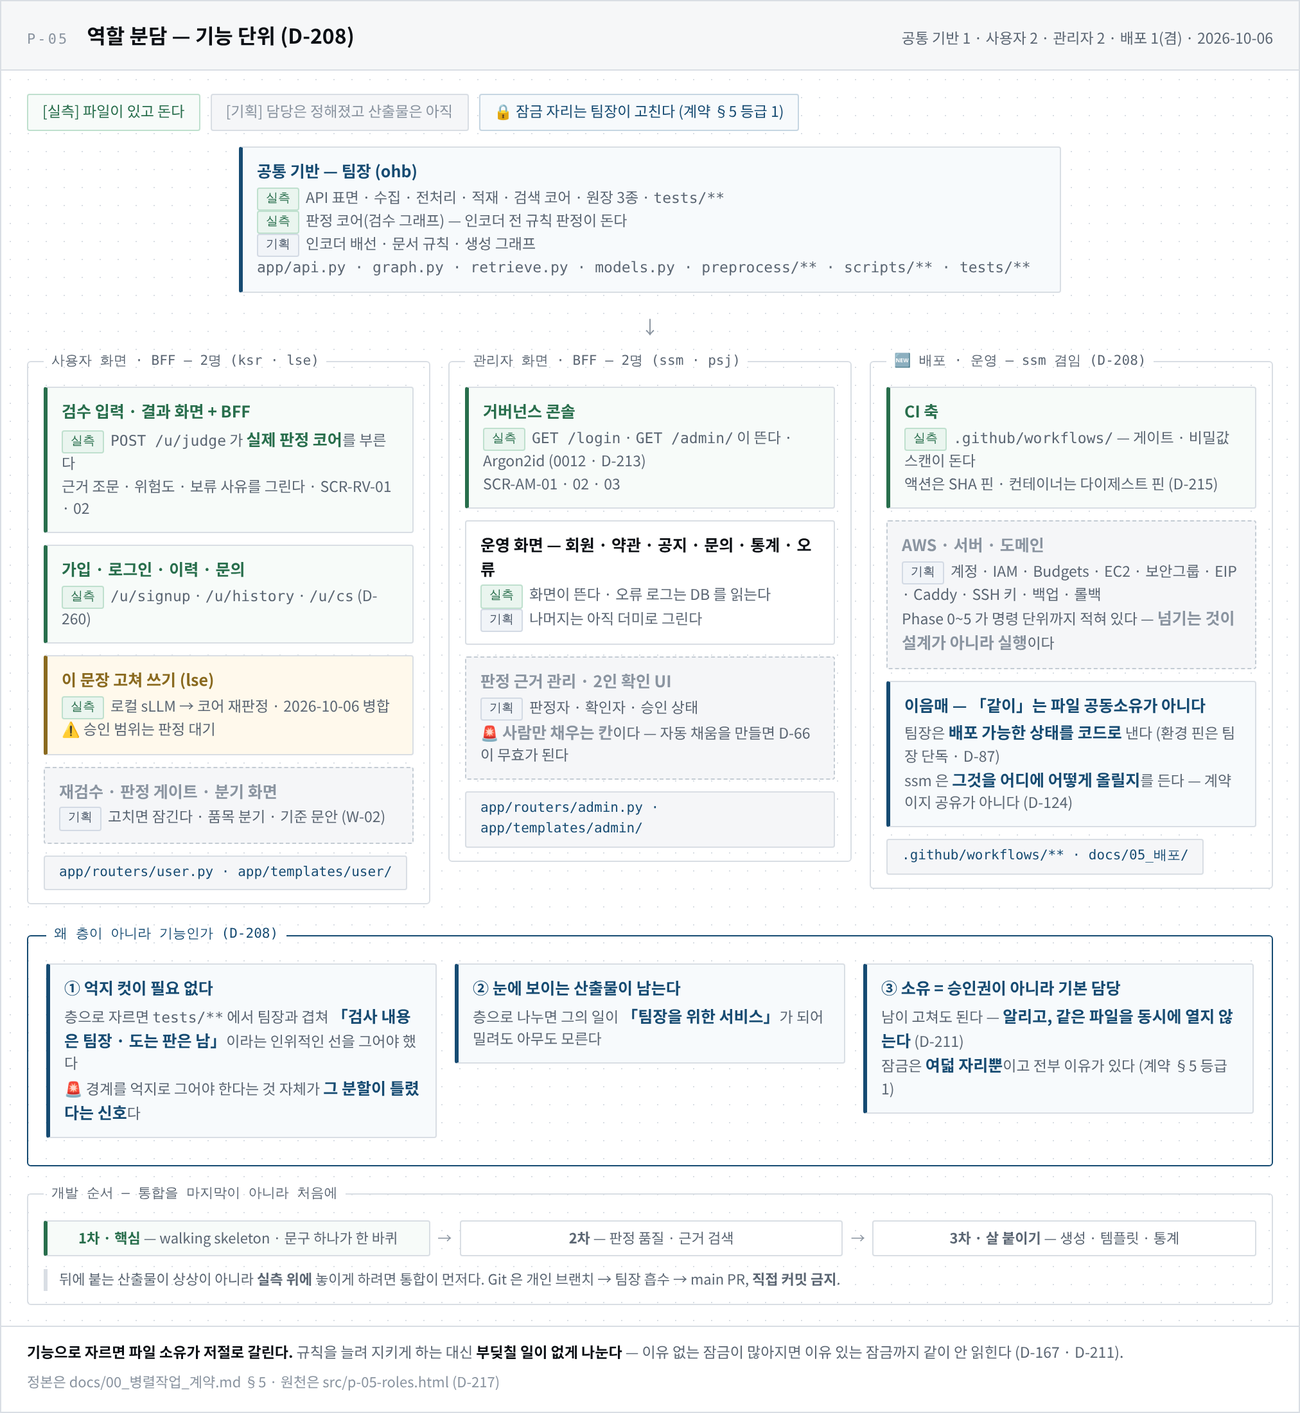
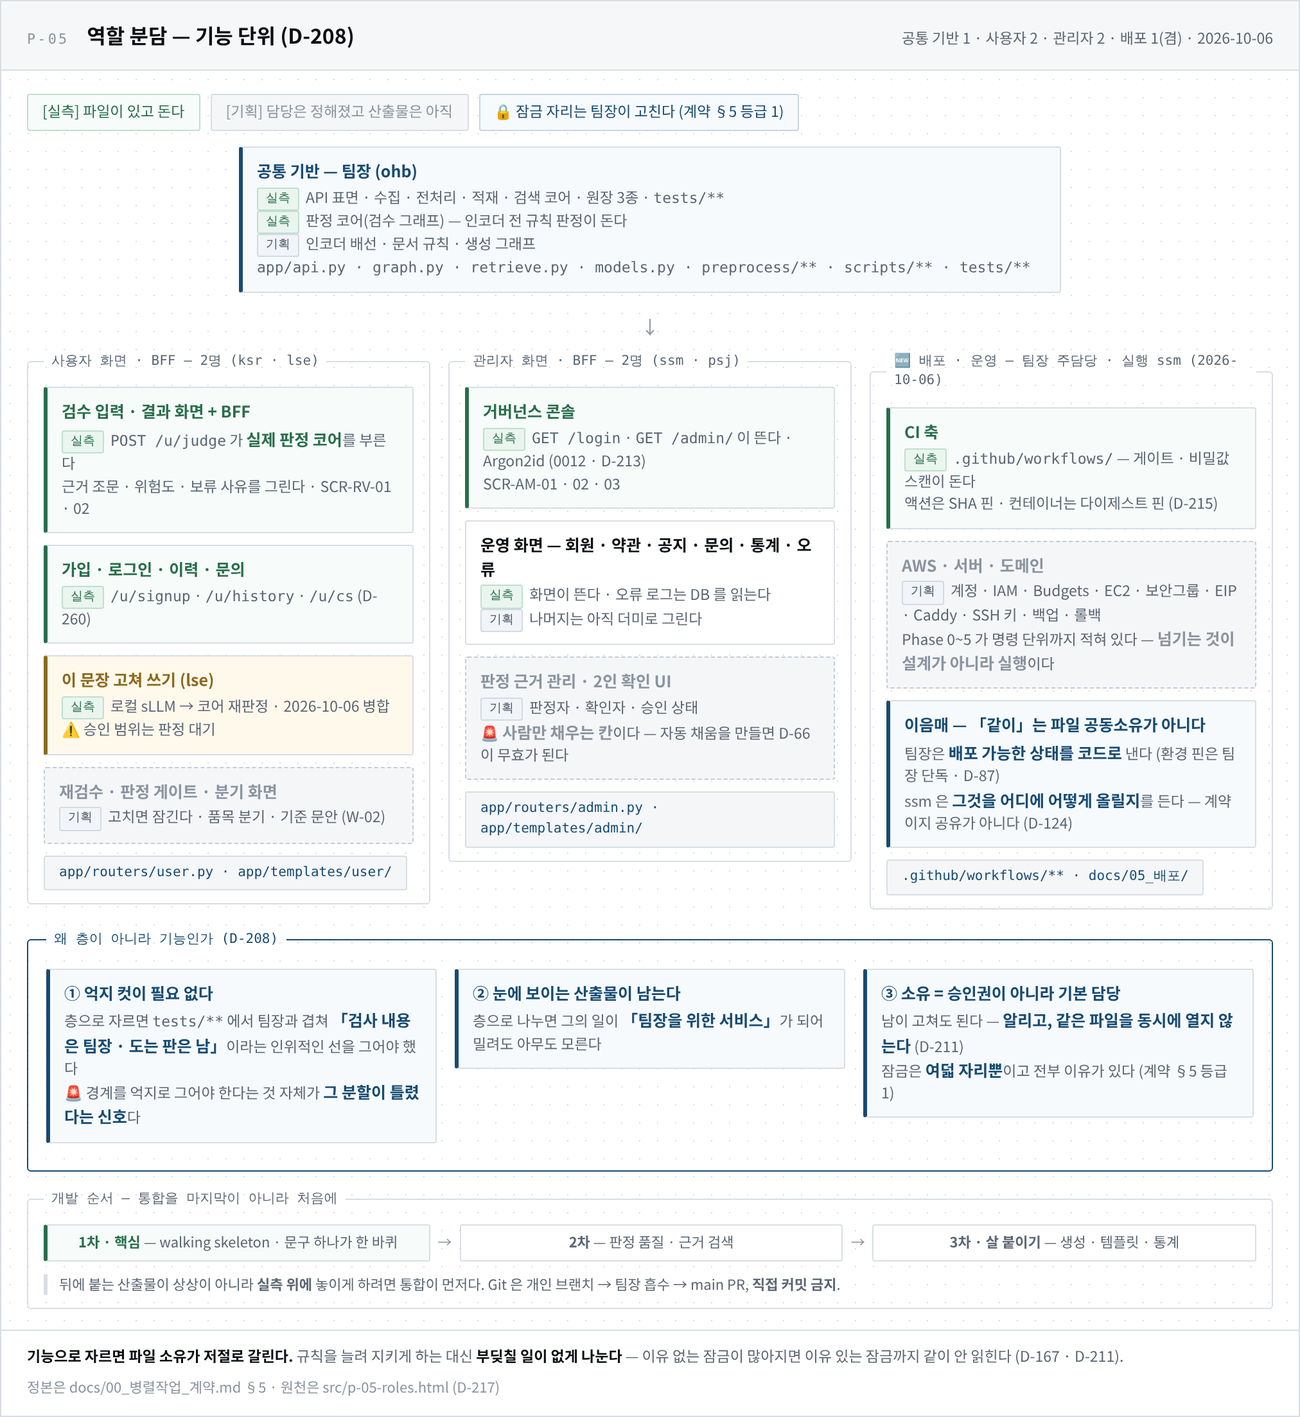
역할 갱신 — sLLM 은 이서은 단독 · 배포·운영 주담당 팀장(D-208 일부 개정) · 소성민 인코더 참여 · 팀장 행 보강

diff --git a/assets/diagrams/src/p-05-roles.html b/assets/diagrams/src/p-05-roles.html
@@ -77,7 +77,7 @@
       </fieldset>
 
       <fieldset>
-        <legend>🆕 배포 · 운영 — ssm 겸임 (D-208)</legend>
+        <legend>🆕 배포 · 운영 — 팀장 주담당 · 실행 ssm (2026-10-06)</legend>
         <div class="card pos"><b>CI 축</b>
           <span><span class="tag m">실측</span><code>.github/workflows/</code> — 게이트 · 비밀값 스캔이 돈다</span>
           <span>액션은 SHA 핀 · 컨테이너는 다이제스트 핀 (D-215)</span></div>

diff --git a/docs/ohb/인계_2026-10-06_클론A_2판.md b/docs/ohb/인계_2026-10-06_클론A_2판.md
@@ -13,7 +13,7 @@
 - **낡은 주석 · 안내문을 고쳤다**(`b0ad791` · 곁가지 · 29 파일) — 「판정 노드는 아직 스텁」류. 동작은 바꾸지 않았다(작업공간에서 구문 트리 대조 — `.py` 17 중 11 동일 · 6 은 안내 · 출력 문자열만 다름)
 - **5주차 산출물 셋을 손질했다**(`8b10220`) — 벡터DB 결과서 · AI 시스템 아키텍처 · 테스트 보고서에 도면(E-03 · A-03 · D-02) · 아키텍처의 생성 노드 서술 정정(빈 노드는 셋) · 테스트 보고서에 저장소 링크와 코드 발췌 · **§6 「sLLM 파인튜닝 평가 — 팀원 작성분」 자리**(비어 있다)
 - 🔴 **`main` 은 `8550651`(PR #88)까지 올라갔다** — `b0ad791` 까지 들어가 있다. `8b10220` 과 이 문서는 아직 `ohb` 에만 있다. 앞 인계가 적은 대로 `main` 에는 분기를 켠 판이 올라가 있다 — 「화면 정리 전에 main 에 올리지 않는다」는 규칙과 어긋난 상태 그대로다(§1 #8)
-- 게이트 — 클론 A 기기 `check` **1,363 passed** · 2 skipped · 809 deselected. 🚨 **`65deaf9` 를 커밋하기 전 문서 1차분만 든 작업 트리에서 돈 수다**(팀장 실행 출력). 도면 · 주석(`b0ad791`) · 산출물 손질(`8b10220`) 뒤의 기기 실행 출력은 받지 못했다 — 작업공간에서는 `ruff` 와 `pytest -m gate` 가 실패 없이 끝났다(기기 실행 아님)
+- 게이트 — 클론 A 기기 `check` **1,363 passed** · 2 skipped · 809 deselected — 🔄 `8b10220` 의 코드(도면 · 주석 · 산출물 손질 뒤) · 팀장 실행 출력. 문서 1차분만 든 작업 트리에서도 같은 수였다
 
 ### 이 세션의 커밋 (`c7f483a` 뒤 · ohb)
 
@@ -63,6 +63,8 @@ uv run python launcher.py check
 | 누구 | 무엇 | 상태 |
 |---|---|---|
 | 팀원 | **요구사항 정의서(업데이트) · 화면설계서 · sLLM 파인튜닝 평가 결과** — 팀원이 작성한다(팀장 확인 10-06) | 저장소의 09-15 판(요구사항 v3.4 · 화면설계서 v1.0)은 그 뒤 결정(D-260 · D-265 · D-314 · D-315 · D-319 · D-320)과 실제 화면을 담지 못한다 — 차이 목록은 정리하지 않았다 |
+| 소성민 | 🔄 **인코더 파인튜닝(T2)에 참여했다**(팀장 확인 10-06) — 원장 「팀」 표 · README · 기획서 8-5 · 주제확정 §4 · `experiments/README.md` 에 반영했다(이 문서 뒤 커밋) | 주담당 · 참여의 구분은 적지 않았다. 🚨 도면 P-05 는 고치지 않았다 — 그 장에는 파인튜닝 트랙(T2 · T5)이 아예 없다(화면 · 배포만 그린다) |
+| 전원 | 🔄 **역할 갱신 (2026-10-06 팀장 판정 · 확인)** — sLLM 파인튜닝(T5)은 이서은 단독(권소라는 맡지 않았다) · 배포·운영은 **팀장 주담당 · 소성민 실행**(D-208 상태 줄에 일부 개정) · 팀장 행에 CI · 거버넌스 게이트 · 보안 점검 · 인증 · 문서 · 브랜치 통합 | 원장 「팀」 표와 사본(README · 기획서 8-5 · 주제확정 §4 · 작업일정 §3 · 병렬작업 계약 §5 · `experiments/README.md` · 도면 P-05)에 반영했다. ⬜ T2 를 「박수진 · 소성민 공동」으로 적을지는 미정 — 지금은 「소성민 참여」다. ⬜ 권소라의 수집 · 2인 확인(확인 서명 74 칸 중 61)을 개인 행에 올릴지도 미정 |
 | 소성민 | 지원 리소스 4종의 **종류별 발급일** — 발급은 소성민이 진행했다(팀장 확인) | 원장 「지원 리소스」 표의 발급일 · 만료 예정 칸이 비어 있다 |
 | 이서은 | sLLM 결과서(10-01 판)의 「살림 20 중 8」 ↔ `작업공유_2026-10-05_06.md` 의 「20 중 9」 | 어느 쪽이 맞는지 확인하지 못했다 — 평가 절을 쓸 때 맞춘다 |
 | 권소라 | 앞 인계 §2 그대로 — `전달_2026-10-05_화면_품목분기.md` 는 아직 안 보냈다 | 초안 고치기 전 |

diff --git a/docs/01_기획/02_프로젝트기획서.md b/docs/01_기획/02_프로젝트기획서.md
@@ -2961,10 +2961,10 @@ G1 통과 기준 = 유형별 Recall이 B 대비 +0.15 이상
 
 | 이름 | 트랙 배정 | 부하 피크 |
 |---|---|:-:|
-| **오한빈** (팀장) | **파이프라인 전체**(전처리 · DB 설계 · 임베딩 · 판정 · 생성 + 판정 코어 API) — **T1 데이터·거버넌스** · T2/T5 **구조(harness)** · **T3 ML·리랭킹** · **T4 그래프 단독** (D-207) | 1W~5W · 6W~7W 재상승 |
-| **권소라** | **사용자 화면 + BFF** · UI 정의 · 🔄 **sLLM 파인튜닝(T5)** | 6W~9W |
-| **이서은** | **사용자 화면 + BFF** · UI 정의 · 🔄 **sLLM 파인튜닝(T5)** | 6W~9W |
-| **소성민** | 🔄 **관리자 화면 + BFF** · 거버넌스 운영 화면 · **배포·운영** · 지원 리소스 발급 (D-208) | 6W~9W |
+| **오한빈** (팀장) | **파이프라인 전체**(전처리 · DB 설계 · 임베딩 · 판정 · 생성 + 판정 코어 API) — **T1 데이터·거버넌스** · T2/T5 **구조(harness)** · **T3 ML·리랭킹** · **T4 그래프 단독** (D-207) · 🔄 **배포·운영 주담당**(실행은 소성민) · CI · 거버넌스 게이트 · 보안 점검 · 인증 · 문서 · 팀원 브랜치 통합 (2026-10-06 팀장 확인) | 1W~5W · 6W~7W 재상승 |
+| **권소라** | **사용자 화면 + BFF** · UI 정의 · 🔄 sLLM 파인튜닝(T5)은 맡지 않았다 — 이서은이 진행했다 (2026-10-06 팀장 확인) | 6W~9W |
+| **이서은** | **사용자 화면 + BFF** · UI 정의 · 🔄 **sLLM 파인튜닝(T5)** — 단독 진행 | 6W~9W |
+| **소성민** | 🔄 **관리자 화면 + BFF** · 거버넌스 운영 화면 · **배포·운영의 실행**(🔄 2026-10-06 주담당은 팀장) · 지원 리소스 발급 (D-208) · 🔄 **DL 인코더 파인튜닝(T2) 참여** — 박수진과 함께 (2026-10-06 팀장 확인) | 6W~9W |
 | **박수진** | **관리자 화면 + BFF** · UI 정의 · 🔄 **DL 인코더 파인튜닝(T2)** | 6W~9W |
 
 > 🔄 **v4.2 — 위 표를 사실원장 「팀 (5인)」 표(2026-09-12 밤 개정)에 다시 맞췄습니다.** 종전 사본은 팀원 4인을 「T5 웹 플랫폼」으로만 적어 **sLLM 파인튜닝(권소라 · 이서은)과 인코더 파인튜닝(박수진)** 이 빠져 있었습니다. 역할은 기본 담당이고 배타적 소유가 아닙니다. 이 표도 사본이므로 **어긋나면 원장이 맞습니다.**
@@ -3656,7 +3656,7 @@ CopyLane     :  차선 긋기  ->  차선 안에서만 생성
 | 5 | **위험도 상향 상한** | 「인코더 +1 등급까지」에 개정 표시 — 근거 스팬 조건부 | 3-5 | D-131 |
 | 6 | **게이트** | 날짜 **9/9(→ 9/10 충족) · 9/11 · 10/13 · 10/13** · 셋째 게이트의 정의를 규칙 조립 생성 기준으로 · 이 문서의 「착수 게이트」와 원장 · 작업일정의 「Phase N 게이트」 이름을 대응시켰습니다 | 8-1 · 8-3 · 9장 철수 조건 | 사실원장 「일정」 · **D-270** |
 | 7 | **T4 2인 페어** | 「T4 를 1인 전담으로 두지 마십시오」를 접었습니다 — 팀장 단독 | 8-5 · 9장 | **D-207** |
-| 8 | **배정** | 팀원 4인에 sLLM 파인튜닝(권소라 · 이서은) · 인코더 파인튜닝(박수진) 추가 | 8-5 | 사실원장 「팀 (5인)」 |
+| 8 | **배정** | 팀원에 sLLM 파인튜닝(이서은 — 🔄 권소라는 맡지 않았다) · 인코더 파인튜닝(박수진 · 🔄 소성민 참여) 추가 · 🔄 배포·운영 주담당은 팀장 · 실행은 소성민 (2026-10-06 팀장 확인) | 8-5 | 사실원장 「팀 (5인)」 |
 | 9 | **적법 라벨 원천** | 식품산업협회 「심의완료 공개목록」(심의 통과 문구 100건+)은 **G1 배제** — 쓰지 않습니다 | 0장 · 4-3 · 4-4 · 5-7 · 9장 · 10장 #6 | 소스 레지스트리 편입 금지 목록 |
 
 **② 🚨 판정 대기 — 이 판이 결론을 적지 않은 것**

diff --git a/docs/01_기획/03_작업일정.md b/docs/01_기획/03_작업일정.md
@@ -85,7 +85,7 @@
 
 ## 3. 공식 WBS 산출물 배치와 담당 트랙
 
-공식 양식의 산출물에 **기획서 8-5의 트랙**을 붙인 것이다. 🔄 인원 배정은 **2026-08-31 확정 → 2026-09-03 개정 → 2026-09-12 밤 개정** — 단일 출처는 `00_사실원장.md` 「팀」이다 (팀장 = 파이프라인 전체 + 판정 코어 API · T1 · T3 리랭킹 · T4 그래프 단독(D-207) / 팀원 4인 = 화면 + BFF 세트에 트랙 담당을 얹음 — 권소라 · 이서은 sLLM 파인튜닝(T5) · 박수진 DL 인코더 파인튜닝(T2) · 소성민 배포·운영).
+공식 양식의 산출물에 **기획서 8-5의 트랙**을 붙인 것이다. 🔄 인원 배정은 **2026-08-31 확정 → 2026-09-03 개정 → 2026-09-12 밤 개정** — 단일 출처는 `00_사실원장.md` 「팀」이다 (팀장 = 파이프라인 전체 + 판정 코어 API · T1 · T3 리랭킹 · T4 그래프 단독(D-207) / 팀원 4인 = 화면 + BFF 세트에 트랙 담당을 얹음 — 이서은 sLLM 파인튜닝(T5) · 박수진 DL 인코더 파인튜닝(T2 · 소성민 참여) · 배포·운영은 팀장 주담당 · 소성민 실행 — 🔄 2026-10-06 팀장 확인).
 
 > 🔄 **진행 표시 (2026-10-06 · 5W 마지막 날)** — 아래 표는 **제출 시점**의 배치다. 5W~6W 줄 가운데 10-06 에 상태를 확인한 것만 「🔄 10-06」으로 적었다. 표시가 없는 줄은 이번에 상태를 확인하지 않은 것이다(없다는 뜻이 아니다).
 
@@ -102,7 +102,7 @@
 | **모델링·평가** | 벡터DB/GraphDB 구축 결과서 | 5W~6W | **T1 · T4** |
 | | AI 시스템 아키텍처 (멀티 에이전트) | 5W~6W | **T4** · 🔄 *10-06 — 판정(검수) 그래프는 실제로 돈다(`/judge` · 사전 적중 기반 판정 첫 판 · 품목 분기 · 증명서 조립기). 인코더 노드는 빈 노드이고 생성 그래프 노드는 스텁이다 — ⬜ 미완* |
 | | 멀티 에이전트 테스트 계획·결과 보고서 (소스코드 포함) | 5W~6W | **T4 · T5** · 🔄 *10-06 — ⬜ 평가 채점 규칙 · 10/13 F1 게이트 지표가 미정 · 판정 대기* |
-| | 자체 sLLM (3·4번 팀) | 5W~6W | **T5** (권소라 · 이서은) · 🔄 *10-06 — sLLM 고쳐 쓰기가 `ohb` 에 병합됐다: 검수 화면의 `POST /u/review/rewrite` 가 로컬 sLLM 서버(`Qwen/Qwen2.5-3B-Instruct` + LoRA · 별도 가상환경)를 부르고 고친 문구를 판정 코어로 다시 판정한다. 그래프의 생성 노드와 `POST /generate` · `/compose`(501)는 그대로다. ⚠ **D-265(검수는 대체 문구를 내지 않는다) · D-270(sLLM 은 설계만)과의 관계, 승인 범위(실사용 · 시연)는 판정 대기** · 모델 레지스트리 등재 · 라이선스도 미정* |
+| | 자체 sLLM (3·4번 팀) | 5W~6W | **T5** (이서은 — 🔄 권소라는 맡지 않았다 · 2026-10-06 팀장 확인) · 🔄 *10-06 — sLLM 고쳐 쓰기가 `ohb` 에 병합됐다: 검수 화면의 `POST /u/review/rewrite` 가 로컬 sLLM 서버(`Qwen/Qwen2.5-3B-Instruct` + LoRA · 별도 가상환경)를 부르고 고친 문구를 판정 코어로 다시 판정한다. 그래프의 생성 노드와 `POST /generate` · `/compose`(501)는 그대로다. ⚠ **D-265(검수는 대체 문구를 내지 않는다) · D-270(sLLM 은 설계만)과의 관계, 승인 범위(실사용 · 시연)는 판정 대기** · 모델 레지스트리 등재 · 라이선스도 미정* |
 | **모델 배포** | 요구사항 정의서 (업데이트) | 5W | 팀장 |
 | | 화면설계서 | 5W | 🔄 **팀원 4인** (유저·관리자 화면 + BFF) — 종전 「T1 이 6W 부터 이관」은 배정 개정으로 폐기 |
 | | 개발된 LLM 연동 웹 애플리케이션 | 7W | 🔄 **팀원 4인** (화면·BFF) + **팀장** (판정 코어 API) |

diff --git a/docs/00_사실원장.md b/docs/00_사실원장.md
@@ -27,10 +27,10 @@
 
 | 역할 | 이름 | 이니셜 | 브랜치 | 개인 문서 폴더 | 🔄 배정 (2026-09-12 밤 개정) |
 |---|---|:-:|---|---|---|
-| **팀장** | **오한빈** | `ohb` | `ohb` | `docs/ohb/` | **파이프라인 전체** — 전처리 · DB 설계 · 임베딩 · 판정 · 생성 + **판정 코어 API**. 🔄 **T1 · T3 리랭킹 · T4 그래프 단독** (D-207) |
-| 팀원 | 권소라 | `ksr` | `ksr` | `docs/ksr/` | 🔄 **사용자 화면 + BFF** · UI 정의 · **sLLM 파인튜닝(T5)** |
-| 팀원 | 이서은 | `lse` | `lse` | `docs/lse/` | 🔄 **사용자 화면 + BFF** · UI 정의 · **sLLM 파인튜닝(T5)** |
-| 팀원 | 소성민 | `ssm` | `ssm` | `docs/ssm/` | 🔄 **관리자 화면 + BFF**(그래프에 요구하는 계약 포함) · **거버넌스 운영 화면** · 🆕 **배포·운영**(AWS·서버·HTTPS·CI 축) · **리소스 발급(RunPod · AWS)**. ⛔ **T4 페어 아님** (D-207) · **기능 단위** (D-208) |
+| **팀장** | **오한빈** | `ohb` | `ohb` | `docs/ohb/` | **파이프라인 전체** — 전처리 · DB 설계 · 임베딩 · 판정 · 생성 + **판정 코어 API**. 🔄 **T1 · T3 리랭킹 · T4 그래프 단독** (D-207) · 🔄 **배포·운영 주담당**(실행은 소성민) · **CI · 거버넌스 게이트 · 보안 점검 · 인증 · 문서 · 팀원 브랜치 통합** (2026-10-06 팀장 확인) |
+| 팀원 | 권소라 | `ksr` | `ksr` | `docs/ksr/` | 🔄 **사용자 화면 + BFF** · UI 정의 · 🔄 sLLM 파인튜닝(T5)은 맡지 않았다 — 이서은이 진행했다 (2026-10-06 팀장 확인) |
+| 팀원 | 이서은 | `lse` | `lse` | `docs/lse/` | 🔄 **사용자 화면 + BFF** · UI 정의 · **sLLM 파인튜닝(T5)** — 🔄 단독 진행 (2026-10-06 팀장 확인) |
+| 팀원 | 소성민 | `ssm` | `ssm` | `docs/ssm/` | 🔄 **관리자 화면 + BFF**(그래프에 요구하는 계약 포함) · **거버넌스 운영 화면** · 🆕 **배포·운영의 실행**(AWS·서버·HTTPS·CI 축 — 🔄 2026-10-06 주담당은 팀장 · 실행이 소성민) · **리소스 발급(RunPod · AWS)** · 🔄 **DL 인코더 파인튜닝(T2) 참여** — 박수진과 함께 (2026-10-06 팀장 확인 · 보고서 `docs/ssm/`). ⛔ **T4 페어 아님** (D-207) · **기능 단위** (D-208) |
 | 팀원 | 박수진 | `psj` | `psj` | `docs/psj/` | 🔄 **관리자 화면 + BFF** · UI 정의 · **DL 인코더 파인튜닝(T2)** |
 | **전원** | — | — | — | — | **데이터 수집 · S0-14 2인 확인 · 설계 가정 검증 5건** |
 | 공동 | **실험 분배** | — | — | — | **구조 = 팀장 · 실험 = 팀원 분배** (D-94) |

diff --git a/docs/01_기획/01_주제확정_및_실행일정.md b/docs/01_기획/01_주제확정_및_실행일정.md
@@ -177,10 +177,10 @@
 
 | 담당 | 배정 (원장 「팀」 · 2026-09-12 밤 개정) |
 |---|---|
-| **팀장 (오한빈)** | **파이프라인 전체** — 전처리 · DB 설계 · 임베딩 · 판정 · 생성 + **판정 코어 API**. **T1 · T3 리랭킹 · T4 그래프 단독** (D-207) |
-| **권소라** | **사용자 화면 + BFF** · UI 정의 · **sLLM 파인튜닝(T5)** |
-| **이서은** | **사용자 화면 + BFF** · UI 정의 · **sLLM 파인튜닝(T5)** |
-| **소성민** | **관리자 화면 + BFF**(그래프에 요구하는 계약 포함) · 거버넌스 운영 화면 · **배포·운영**(AWS · 서버 · HTTPS · CI 축 · D-208) · 리소스 발급(RunPod · AWS) |
+| **팀장 (오한빈)** | **파이프라인 전체** — 전처리 · DB 설계 · 임베딩 · 판정 · 생성 + **판정 코어 API**. **T1 · T3 리랭킹 · T4 그래프 단독** (D-207) · 🔄 **배포·운영 주담당**(실행은 소성민) · CI · 거버넌스 게이트 · 보안 점검 · 인증 · 문서 · 팀원 브랜치 통합 (2026-10-06 팀장 확인) |
+| **권소라** | **사용자 화면 + BFF** · UI 정의 · 🔄 sLLM 파인튜닝(T5)은 맡지 않았다 — 이서은이 진행했다 (2026-10-06 팀장 확인) |
+| **이서은** | **사용자 화면 + BFF** · UI 정의 · **sLLM 파인튜닝(T5)** — 🔄 단독 진행 |
+| **소성민** | **관리자 화면 + BFF**(그래프에 요구하는 계약 포함) · 거버넌스 운영 화면 · **배포·운영의 실행**(AWS · 서버 · HTTPS · CI 축 · D-208 — 🔄 2026-10-06 주담당은 팀장) · 리소스 발급(RunPod · AWS) · 🔄 **DL 인코더 파인튜닝(T2) 참여** — 박수진과 함께 (2026-10-06 팀장 확인) |
 | **박수진** | **관리자 화면 + BFF** · UI 정의 · **DL 인코더 파인튜닝(T2)** |
 | **전원** | 데이터 수집 · S0-14 2인 확인 · 설계 가정 검증 5건 |
 | 공동 | 실험 분배 — 구조 = 팀장 · 실험 = 팀원 분배 (D-94) |

diff --git a/experiments/README.md b/experiments/README.md
@@ -73,8 +73,8 @@ note: 왜 이 조합을 골랐는지 한 줄
   위 표대로 각자 노트북 · 스크립트로 진행했다. ⛔ 기본값을 코드에 박아 두지 않은 것은 그대로다.
   ⬜ 이 틀을 지금이라도 세워 기존 실험을 옮길지, 틀을 접을지는 **정해지지 않았다**(팀장 판정).
 - ~~🔴 **T3 에 사람이 없다.**~~ → ✅ **T3(ML·리랭킹)은 팀장이 진다** (2026-09-12 밤 팀장 판정 · 사실원장 「팀」). 🔄 2026-09-21 정정 —
-  배정은 T2(psj) · T5(ksr·lse) · T1·T3·T4 팀장이다. ssm 은 T4 페어가 아니다 (D-207 · 페어 → 계약).
-  🔄 2026-10-06 — 인코더 파인튜닝 보고서는 `docs/ssm/` 에도 있다(원장 「팀」 표의 배정 글자는 T2 = psj 그대로다).
+  배정은 T2(psj) · T5(ksr·lse) · T1·T3·T4 팀장이다. 🔄 2026-10-06 — T5 는 lse 가 단독으로 진행했다(ksr 은 맡지 않았다 · 팀장 확인). ssm 은 T4 페어가 아니다 (D-207 · 페어 → 계약).
+  🔄 2026-10-06 — **ssm 도 인코더 파인튜닝(T2)에 참여했다** — psj 와 함께다(팀장 확인 · 원장 「팀」 표에 반영). 보고서는 `docs/psj/` · `docs/ssm/` 양쪽에 있다.
 - **분배표** — 누가 어떤 `(모델, 하이퍼파라미터)` 를 받는지. 원장 「팀」 절이 ⬜ 로 적어 뒀다. ⬜ 10-06 기준 재확인 필요 — 원장의 ⬜ 는 그대로다.
 - **RunPod 슬롯 규칙** — 계정이 팀당 1개다. 발급 담당(소성민)과 정한다 (D-94). ⬜ 10-06 기준 재확인 필요 — 정해졌다는 기록을 찾지 못했다.
 - **무변화 3회 실행** — 설정을 나눠 주기 **전에** 팀장이 트랙마다 한 번 돌려 폭을 원장에 적는다

diff --git a/README.md b/README.md
@@ -408,9 +408,10 @@ uv run python launcher.py serve      # FastAPI
 
 | 역할 | |
 |---|---|
-| **오한빈** (팀장) | 파이프라인 전체 — 전처리 · DB 설계 · 임베딩 · 판정 · 생성 + 판정 코어 API · 리랭킹 · 판정 그래프 |
-| **권소라** · **이서은** | 사용자 화면 · 사용자 BFF · UI 정의 · sLLM 파인튜닝 |
-| **소성민** | 관리자 화면 · 관리자 BFF · 거버넌스 운영 화면 · 배포 · 운영 · 리소스 발급 |
+| **오한빈** (팀장) | 파이프라인 전체 — 전처리 · DB 설계 · 임베딩 · 판정 · 생성 + 판정 코어 API · 리랭킹 · 판정 그래프 · 배포 · 운영(주담당) · CI · 거버넌스 게이트 · 보안 점검 · 인증 · 문서 · 브랜치 통합 |
+| **권소라** | 사용자 화면 · 사용자 BFF · UI 정의 |
+| **이서은** | 사용자 화면 · 사용자 BFF · UI 정의 · sLLM 파인튜닝 |
+| **소성민** | 관리자 화면 · 관리자 BFF · 거버넌스 운영 화면 · 배포 · 운영(실행) · 리소스 발급 · 판정 인코더 파인튜닝 |
 | **박수진** | 관리자 화면 · 관리자 BFF · UI 정의 · 판정 인코더 파인튜닝 |
 | **전원** | 데이터 수집 · 2인 확인 |
 

diff --git a/docs/00_설계결정기록.md b/docs/00_설계결정기록.md
@@ -8611,7 +8611,7 @@ D-77 의 판정 파이프라인 예산표는 **처음부터 다섯 층**이다. 
 
 ### D-208 · **기능 단위로 나눈다 — 층으로 나누면 경계를 억지로 그어야 한다**
 
-- **상태**: 확정 (2026-09-12 밤)
+- **상태**: 확정 (2026-09-12 밤) · 🔄 **2026-10-06 일부 개정(팀장 판정)** — **배포·운영의 주담당은 팀장이고 실행이 ssm 이다.** 아래 「결정」의 ssm 배정 가운데 배포·운영이 이렇게 바뀐다. 관리자 화면 + BFF · 리소스 발급은 그대로다. 🔄 같은 날 — ssm 은 DL 인코더 파인튜닝(T2)에도 참여했다 · sLLM 파인튜닝(T5)은 lse 가 단독으로 진행했다(사실원장 「팀」)
 - **맥락**: D-207 이 T4 2인 페어를 접으면서 ssm 에게 「게이트·측정 환경」을 줬다.
   ⛔ **그 분할은 기능이 아니라 층이었다.**
 
